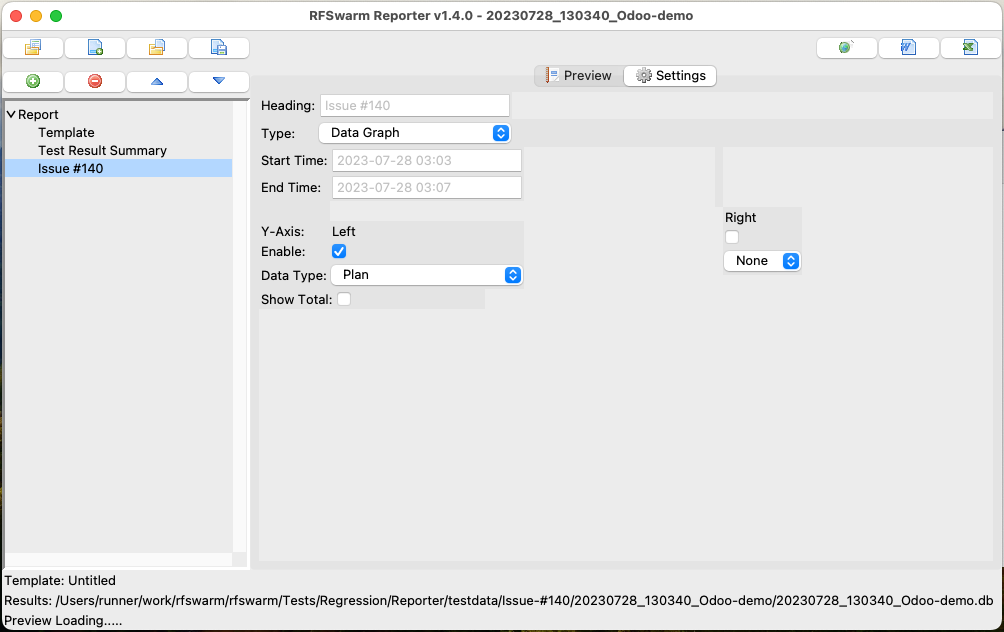
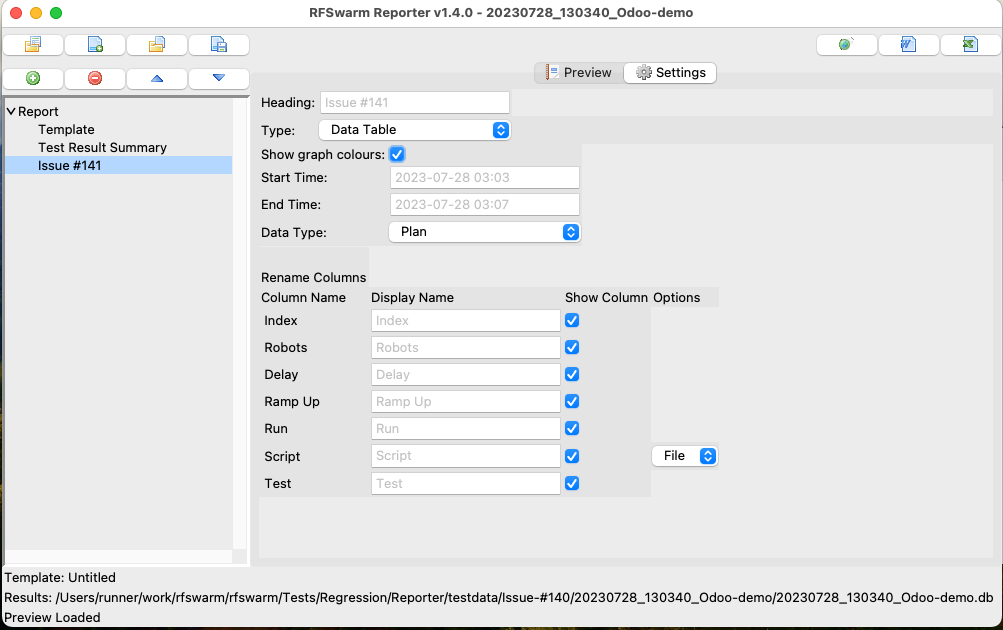
Update documentation and screenshots Issue #141

diff --git a/Doc/rfswarm_reporter.md b/Doc/rfswarm_reporter.md
@@ -62,8 +62,8 @@ When Report is selected, the settings pane will display settings the global repo
 | Date Format | Here you can select the date format you wish to use in the report (defaults to yyyy-mm-dd) |
 | Time Format | Here you can select the time format you wish to use in the report (defaults to HH:MM) |
 | Time Zone | Times in rfswarm are stored using epoch time also known as Unix timestamp, as such all times are UTC with no timezone offset. To display the expected times rfswram Reporter needs to know the timeszone to apply to the timestamp. This should default to the timezone of your local machine, however you may want to display times in your report for another timezone. |
-| Start Time | This value is extracted from the results database, to display it on the title page, enable the checkbox in the display column |
-| End Time | This value is extracted from the results database, to display it on the title page, enable the checkbox in the display column |
+| Start Time | The default value is extracted from the results database, You can adjust the time to constrain this report's data to a specific time range. To display it on the title page, enable the checkbox in the display column |
+| End Time | The default value is extracted from the results database, You can adjust the time to constrain this report's data to a specific time range. To display it on the title page, enable the checkbox in the display column |
 | Logo Image | This setting lets you add a picture to the title page of your report, typically this would be your organisation's logo, but it can be anything you want. the field is read only but will show the filename of the file you selected. Click the ![image](Images/REP_picture.gif)Select Picture button and browse to the image you want to use. Then enable the checkbox in the display column |
 | Font | This setting allows you to choose the font and font size to be used throughout the report. Headings and titles use the same font however the font size will be scaled proportionally to the base font size. |
 | Highlight Colour | This setting allows you to choose a colour for headings and column headings, Click the ![image](Images/REP_color_swatch.gif)Colour Swatch button next to the colour preview to bring up the system colour picker and choose a colour. For best results choose the colour that matches your organisation's branding. |
@@ -153,6 +153,10 @@ The data graph section is used for displaying graphs of test results and other m
 > ![Image](Images/MacOS_Reporter_v1.0.0_DataGraph_Settings.png)
 > ![Image](Images/MacOS_Reporter_v1.0.0_DataGraph_Settings_Type.png)
 
+**Start Time** - Allows you to constrain this graph's data to a specific time range.
+
+**End Time** - Allows you to constrain this graph's data to a specific time range.
+
 The data sources for the graphs can be:
 - [Plan](#data-graph-plan)
 - [Metric](#data-graph-metric)
@@ -161,10 +165,10 @@ The data sources for the graphs can be:
 
 ##### Data Graph Plan
 The Plan Data Graph allows you to include the graph from the plan tab of the RFSwarm Manager in your test report.
-> ![Image](Images/MacOS_Reporter_v1.4.0_DataTable_Plan.png)
+> ![Image](Images/MacOS_Reporter_v1.4.0_DataGraph_Plan.png)
 
 **Show Total** - If enabled, shows a line for the total number of planned robots. The image below shows an example with Show Total enabled.
-> ![Image](Images/MacOS_Reporter_v1.4.0_DataTable_PlanPreview.png)
+> ![Image](Images/MacOS_Reporter_v1.4.0_DataGraph_PlanPreview.png)
 
 ##### Data Graph Metric
 > ![Image](Images/MacOS_Reporter_v1.0.0_DataGraph_Metric.png)
@@ -228,15 +232,31 @@ The data table section is used for displaying tables of test results and other m
 
 **Show graph colours** - When enabled will display a colour swatch in the first column of the table that matches the first data column to the matching data value on a related graph, this is useful for creating legend tables.
 
+**Start Time** - Allows you to constrain this table's data to a specific time range.
+
+**End Time** - Allows you to constrain this table's data to a specific time range.
+
 > ![Image](Images/MacOS_Reporter_v1.0.0_DataTable_Settings_Type.png)
 
 **Rename Columns** - This section allows you to change the default English column names, to another name you prefer or the equivalent in your preferred language
 
 The data sources for the graphs can be:
+- [Plan](#data-table-plan)
 - [Metric](#data-table-metric)
 - [Result](#data-table-result)
 - [ResultSummary](#data-table-resultsummary)
 - [Custom SQL](#data-table-sql)
+
+##### Data Table Plan
+The Plan Data Table allows you to include the test row data from the plan tab of the RFSwarm Manager in your test report.
+> ![Image](Images/MacOS_Reporter_v1.4.0_DataTable_Plan.png)
+
+**Show Column** - If disabled, hides the column from the report
+
+**Options** - Allows you to choose what is shown in the column, currently only the script column has an option that allows you to choose between the file name of the robot file or the full path of the robot file
+
+The image below shows an example with Show graph colours and all columns enabled.
+> ![Image](Images/MacOS_Reporter_v1.4.0_DataTable_PlanPreview.png)
 
 ##### Data Table Metric
 > ![Image](Images/MacOS_Reporter_v1.0.0_DataTable_Metric.png)
@@ -310,6 +330,10 @@ Also note that **Show graph colours** will use values of the first data column t
 #### Error Details Section
 The data table section is used for displaying error details for any failed keywords during the test. This report section queries the results database for FAIL results, then uses the test group number, the robot number and the iteration to identify the correct output.xml file, it then reads the error detail and also finds any related screenshots included in the failed keyword.
 > ![Image](Images/Linux_Reporter_v1.2.0_ErrorDetails_Settings.png)
+
+**Start Time** - Allows you to constrain this error details section's data to a specific time range.
+
+**End Time** - Allows you to constrain this error details section's data to a specific time range.
 
 **Show screenshots** - If the test library takes screenshots of the AUT when a keyword fails, this setting will include any screenshot found in the report.
 
